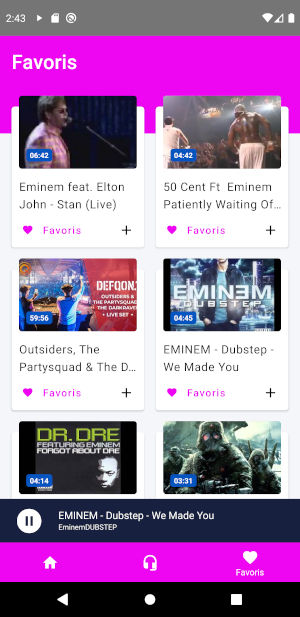
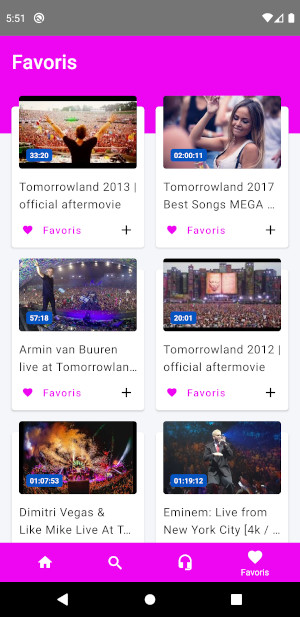
:bento: Updating App screenshots

diff --git a/config/quickAction.ts b/config/quickAction.ts
@@ -1,5 +1,6 @@
 export const QUICK_ACTION_PLAYLISTS = 'Playlists';
 export const QUICK_ACTION_FAVORIS = 'Favoris';
+export const QUICK_ACTION_SEARCH = 'Search';
 
 export const quickActionShortcutItems = [
   {
@@ -16,6 +17,14 @@ export const quickActionShortcutItems = [
     icon: 'favorite',
     userInfo: {
       url: 'app://favoris'
+    }
+  },
+  {
+    type: 'Orders',
+    title: QUICK_ACTION_SEARCH,
+    icon: 'search',
+    userInfo: {
+      url: 'app://search'
     }
   }
 ];

diff --git a/README.md b/README.md
@@ -13,10 +13,13 @@ HoloPlay (HoP) is a Youtube alternative app using [Invidious API](https://github
 If you want add more feature, PM or PR are welcome :)
 
 [<img src="docs/dashboard.jpg" width=250>](./docs/dashboard.jpg)
-[<img src="docs/player.jpg" width=250>](./docs/player.jpg)
+[<img src="docs/search.jpg" width=250>](./docs/search.jpg)
 [<img src="docs/playlists.jpg" width=250>](./docs/playlists.jpg)
 [<img src="docs/favoris.jpg" width=250>](./docs/favoris.jpg)
 [<img src="docs/dashboard-dark.jpg" width=250>](./docs/dashboard-dark.jpg)
+[<img src="docs/player.jpg" width=250>](./docs/player.jpg)
+[<img src="docs/drawler.jpg" width=250>](./docs/drawler.jpg)
+[<img src="docs/settings.jpg" width=250>](./docs/settings.jpg)
 [<img src="docs/quick-actions.jpg" width=250>](./docs/quick-actions.jpg)
 
 Interface based on beautiful free [Music Song](https://www.uplabs.com/posts/music-song).
